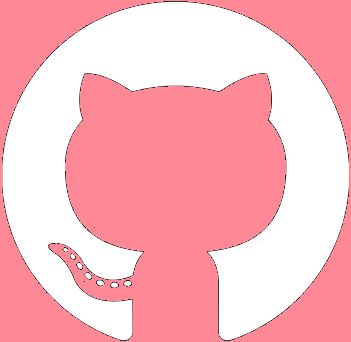
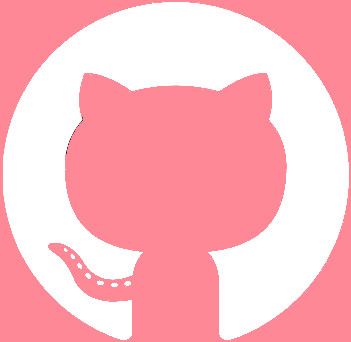
github jpg -> png

diff --git a/index.html b/index.html
@@ -22,7 +22,7 @@
       </div>
       <div class="fl w-10 ma2">
          <a class="no-underline near-white bg-animate bg-near-black hover-bg-gray inline-flex items-center ma2 tc br2 pa2" href="https://github.com/probably-neb" title="GitHub">
-            <img src="images/github.jpg" class="contain" style="width: auto; height: auto;max-width: 40px;max-height: 40px">
+            <img src="images/github.png" class="contain" style="width: auto; height: auto;max-width: 40px;max-height: 40px">
          </a>
       </div>
    </div>
